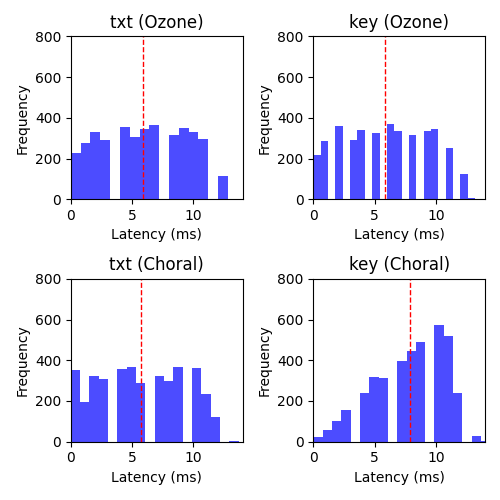
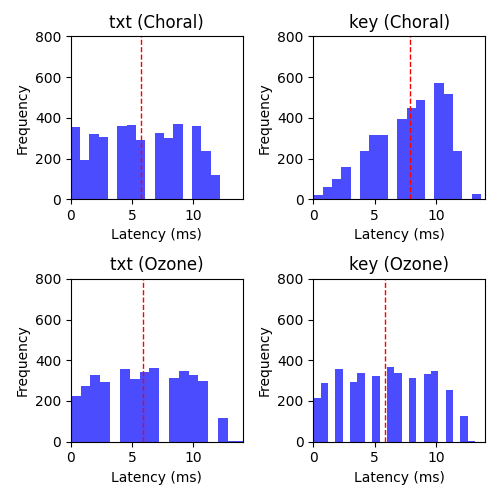
colorss

diff --git a/scripts/plot.py b/scripts/plot.py
@@ -24,7 +24,8 @@ def plot_histogram_from_csv(filename, inputs, bins):
         maxima[i] = data[0].quantile(0.999)
         
         # Plotting histogram
-        axes[i].hist(data[0], bins=bins, color='blue', alpha=0.7)
+        color = 'red' if 'Ozone' in title else 'blue'
+        axes[i].hist(data[0], bins=bins, color=color, alpha=0.7)
         axes[i].axvline(data[0].mean(), color='red', linestyle='dashed', linewidth=1)
         axes[i].set_title(title)
         axes[i].set_xlabel('Latency (ms)')
@@ -42,10 +43,10 @@ def plot_histogram_from_csv(filename, inputs, bins):
 
 def plot_senders_histograms():
     inputs = {
-        'txt (Ozone)': 'data/concurrentsend/key-latencies.csv', 
-        'key (Ozone)': 'data/concurrentsend/txt-latencies.csv', 
         'txt (Choral)': 'data/inordersend/key-latencies.csv', 
         'key (Choral)': 'data/inordersend/txt-latencies.csv',
+        'txt (Ozone)': 'data/concurrentsend/key-latencies.csv', 
+        'key (Ozone)': 'data/concurrentsend/txt-latencies.csv', 
     }
 
     plot_histogram_from_csv("figures/senders.png", inputs, bins=25)
